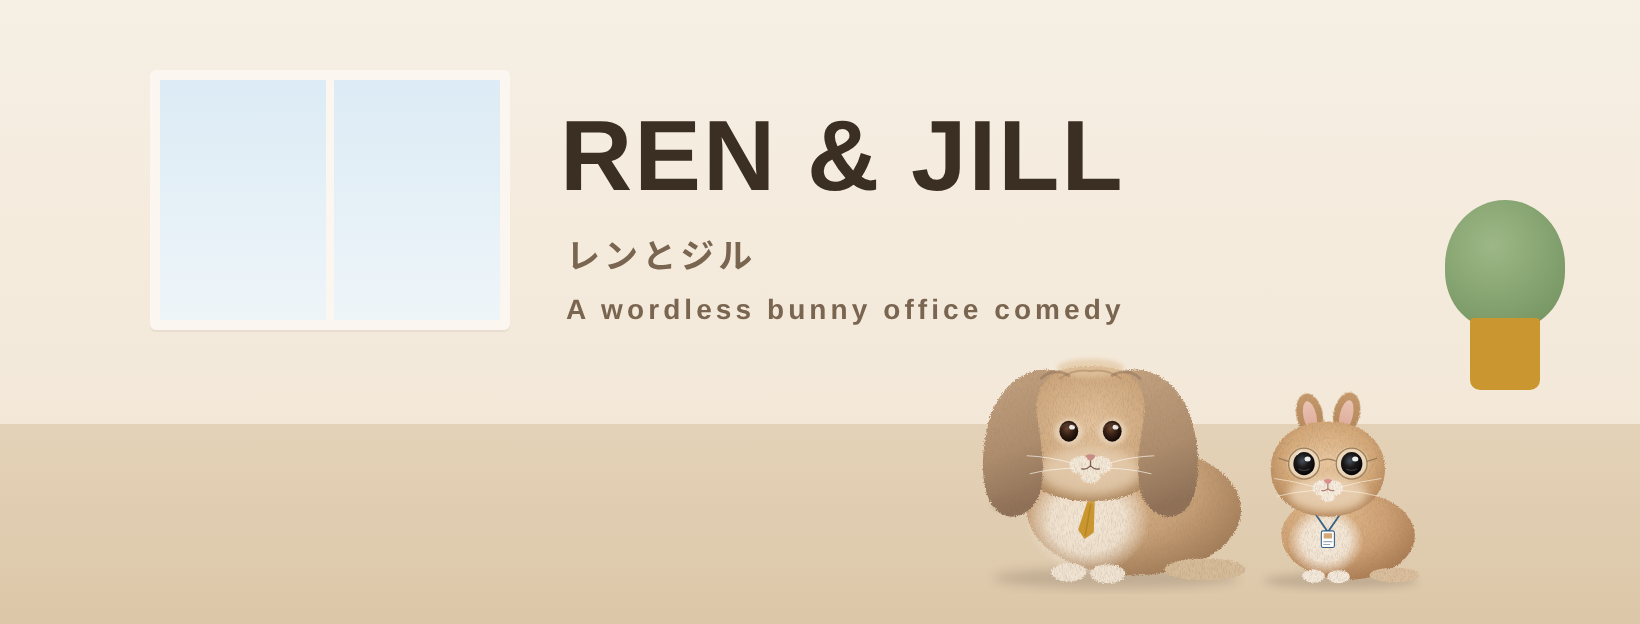
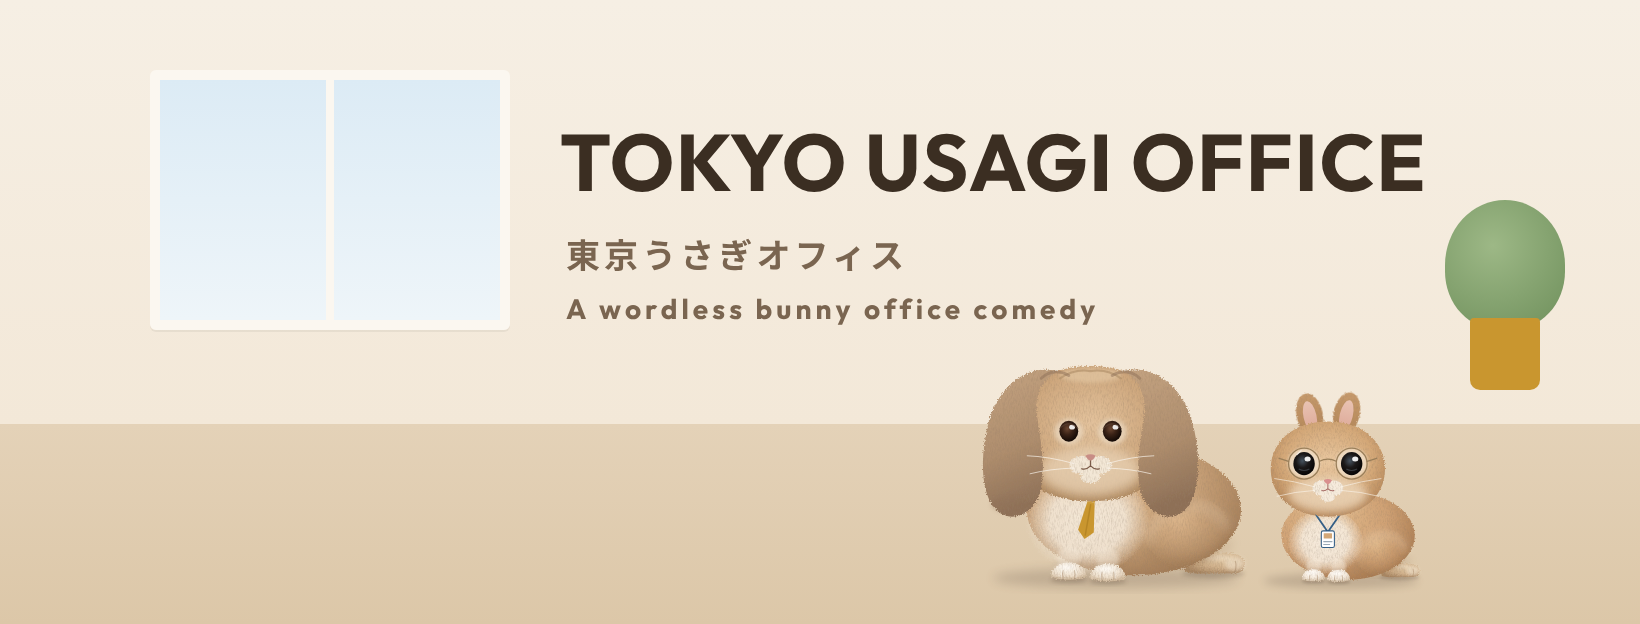
SNS のバナー（X・YouTube・Facebook）を東京うさぎオフィスに。長い名前がはみ出さないよう文字の大きさと配置を直す
Claude-Session: https://claude.ai/code/session_01KYhWQU4fohy1dPRv4PjYqL

diff --git a/rig/banners.html b/rig/banners.html
@@ -16,7 +16,7 @@ body{margin:0;background:#fff}
 <div class="b" id="x" style="width:1500px;height:500px">
  <div class="win" style="left:90px;top:60px;width:300px;height:210px"></div>
  <div class="plant" style="left:1360px;top:150px;width:100px;height:110px"></div><div class="pot" style="left:1380px;top:250px;width:60px;height:62px"></div>
- <div class="title" style="left:470px;top:110px;font-size:92px;font-family:'Outfit','Noto Sans',sans-serif;letter-spacing:.02em">TOKYO USAGI OFFICE</div>
+ <div class="title" style="left:470px;top:122px;font-size:64px;font-family:'Outfit','Noto Sans',sans-serif;letter-spacing:.02em">TOKYO USAGI OFFICE</div>
  <div class="sub" style="left:476px;top:225px;font-size:30px;font-family:'Noto Sans JP','Noto Sans CJK JP',sans-serif;font-weight:700;line-height:1.5">東京うさぎオフィス<br><span style="font-family:'Outfit','Noto Sans',sans-serif;font-size:24px">A wordless bunny office comedy</span></div>
  <div class="duo" style="left:1010px;top:185px"><svg id="xr" viewBox="0 0 400 420" style="width:250px;height:262px"></svg><svg id="xj" viewBox="0 0 400 420" style="width:205px;height:215px;margin-left:-30px"></svg></div>
 </div>
@@ -24,16 +24,16 @@ body{margin:0;background:#fff}
 <div class="b" id="yt" style="width:2560px;height:1440px;background:linear-gradient(180deg,#F6EFE4 0%,#F3E8D8 64%,#E4D2B8 64%,#DCC7A8 100%)">
  <div class="win" style="left:180px;top:200px;width:520px;height:380px"></div>
  <div class="win" style="left:1860px;top:200px;width:520px;height:380px"></div>
- <div class="title" style="left:560px;top:590px;font-size:130px;font-family:'Outfit','Noto Sans',sans-serif;letter-spacing:.02em">TOKYO USAGI OFFICE</div>
- <div class="sub" style="left:566px;top:760px;font-size:46px;font-family:'Noto Sans JP','Noto Sans CJK JP',sans-serif;font-weight:700">東京うさぎオフィス</div>
- <div class="sub" style="left:566px;top:830px;font-size:30px">A wordless bunny office comedy</div>
+ <div class="title" style="left:560px;top:540px;font-size:112px;font-family:'Outfit','Noto Sans',sans-serif;letter-spacing:.02em">TOKYO USAGI<br>OFFICE</div>
+ <div class="sub" style="left:566px;top:790px;font-size:46px;font-family:'Noto Sans JP','Noto Sans CJK JP',sans-serif;font-weight:700">東京うさぎオフィス</div>
+ <div class="sub" style="left:566px;top:860px;font-size:30px">A wordless bunny office comedy</div>
  <div class="duo" style="left:1430px;top:520px"><svg id="yr" viewBox="0 0 400 420" style="width:390px;height:410px"></svg><svg id="yj" viewBox="0 0 400 420" style="width:320px;height:336px;margin-left:-46px"></svg></div>
 </div>
 <!-- Facebook cover 1640x624 (display crop safe center) -->
 <div class="b" id="fb" style="width:1640px;height:624px">
  <div class="win" style="left:150px;top:70px;width:340px;height:240px"></div>
  <div class="plant" style="left:1445px;top:200px;width:120px;height:130px"></div><div class="pot" style="left:1470px;top:318px;width:70px;height:72px"></div>
- <div class="title" style="left:560px;top:105px;font-size:100px;font-family:'Outfit','Noto Sans',sans-serif;letter-spacing:.02em">TOKYO USAGI OFFICE</div>
+ <div class="title" style="left:560px;top:122px;font-size:80px;font-family:'Outfit','Noto Sans',sans-serif;letter-spacing:.02em">TOKYO USAGI OFFICE</div>
  <div class="sub" style="left:566px;top:228px;font-size:34px;font-family:'Noto Sans JP','Noto Sans CJK JP',sans-serif;font-weight:700;line-height:1.5">東京うさぎオフィス<br><span style="font-family:'Outfit','Noto Sans',sans-serif;font-size:28px">A wordless bunny office comedy</span></div>
  <div class="duo" style="left:960px;top:290px"><svg id="fr" viewBox="0 0 400 420" style="width:290px;height:304px"></svg><svg id="fj" viewBox="0 0 400 420" style="width:238px;height:250px;margin-left:-34px"></svg></div>
 </div>
